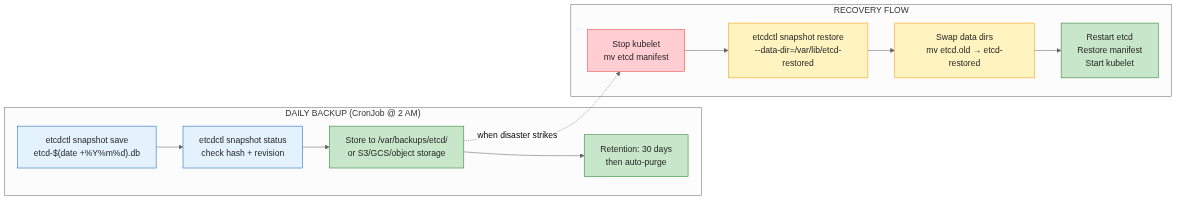
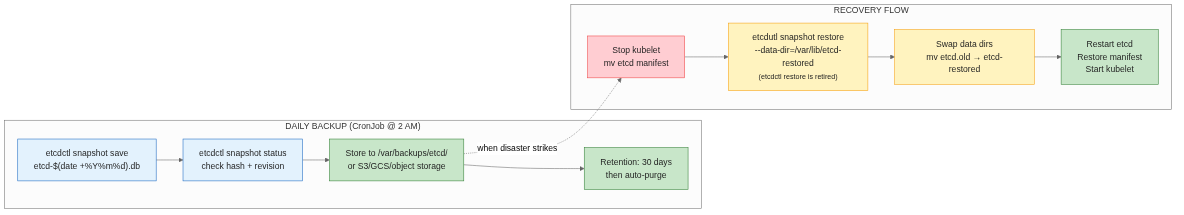
fix: etcdctl snapshot restore -> etcdutl snapshot restore (retired)

diff --git a/etcd-production-management/main.md b/etcd-production-management/main.md
@@ -289,6 +289,9 @@ etcdctl defrag
 
 Never rely on filesystem-level backups of etcd's data directory. Always use `etcdctl snapshot save`.
 
+> **Note on tools:** `etcdctl` handles live operations (save, status, member management).  
+> `etcdutl` handles offline operations — specifically `snapshot restore`. The old `etcdctl snapshot restore` is retired.
+
 ```bash
 # Daily snapshot
 etcdctl snapshot save /backup/etcd-$(date +%Y%m%d).db
@@ -307,8 +310,8 @@ systemctl stop kubelet
 # If static pod:
 mv /etc/kubernetes/manifests/etcd.yaml /etc/kubernetes/
 
-# Restore from snapshot
-etcdctl snapshot restore /backup/etcd-20260531.db \
+# Restore from snapshot (etcdutl, not etcdctl — etcdctl snapshot restore is retired)
+etcdutl snapshot restore /backup/etcd-20260531.db \
   --data-dir=/var/lib/etcd-restored \
   --initial-cluster=etcd-0=https://10.0.0.1:2380 \
   --initial-advertise-peer-urls=https://10.0.0.1:2380 \
@@ -325,7 +328,7 @@ systemctl start kubelet
 
 ### Key Recovery Facts
 
-- `etcdctl snapshot restore` creates a **new cluster** from the snapshot — the member IDs and cluster ID change
+- `etcdutl snapshot restore` creates a **new cluster** from the snapshot — the member IDs and cluster ID change (`etcdctl snapshot restore` is retired)
 - You restore one snapshot per etcd member, but they must all restore from the same snapshot
 - On a multi-member cluster, you effectively rebuild the cluster from the snapshot
 - There is no "incremental" restore — it's snapshot or nothing
@@ -553,8 +556,9 @@ A single Secret larger than 1 MB is a misfit for etcd. Store large configs in ex
 │  ─────────────────────                                           │
 │  etcdctl snapshot save /path/backup-$(date +%Y%m%d).db          │
 │  etcdctl snapshot status /path/backup.db -w table                │
-│  etcdctl snapshot restore /path/backup.db \                     │
+│  etcdutl snapshot restore /path/backup.db \                     │
 │    --data-dir=/var/lib/etcd-restored --name=etcd-0               │
+│  # ^ etcdctl snapshot restore is retired — use etcdutl instead   │
 │                                                                  │
 │  🧹 Compaction & Defrag                                          │
 │  ──────────────────────────                                       │